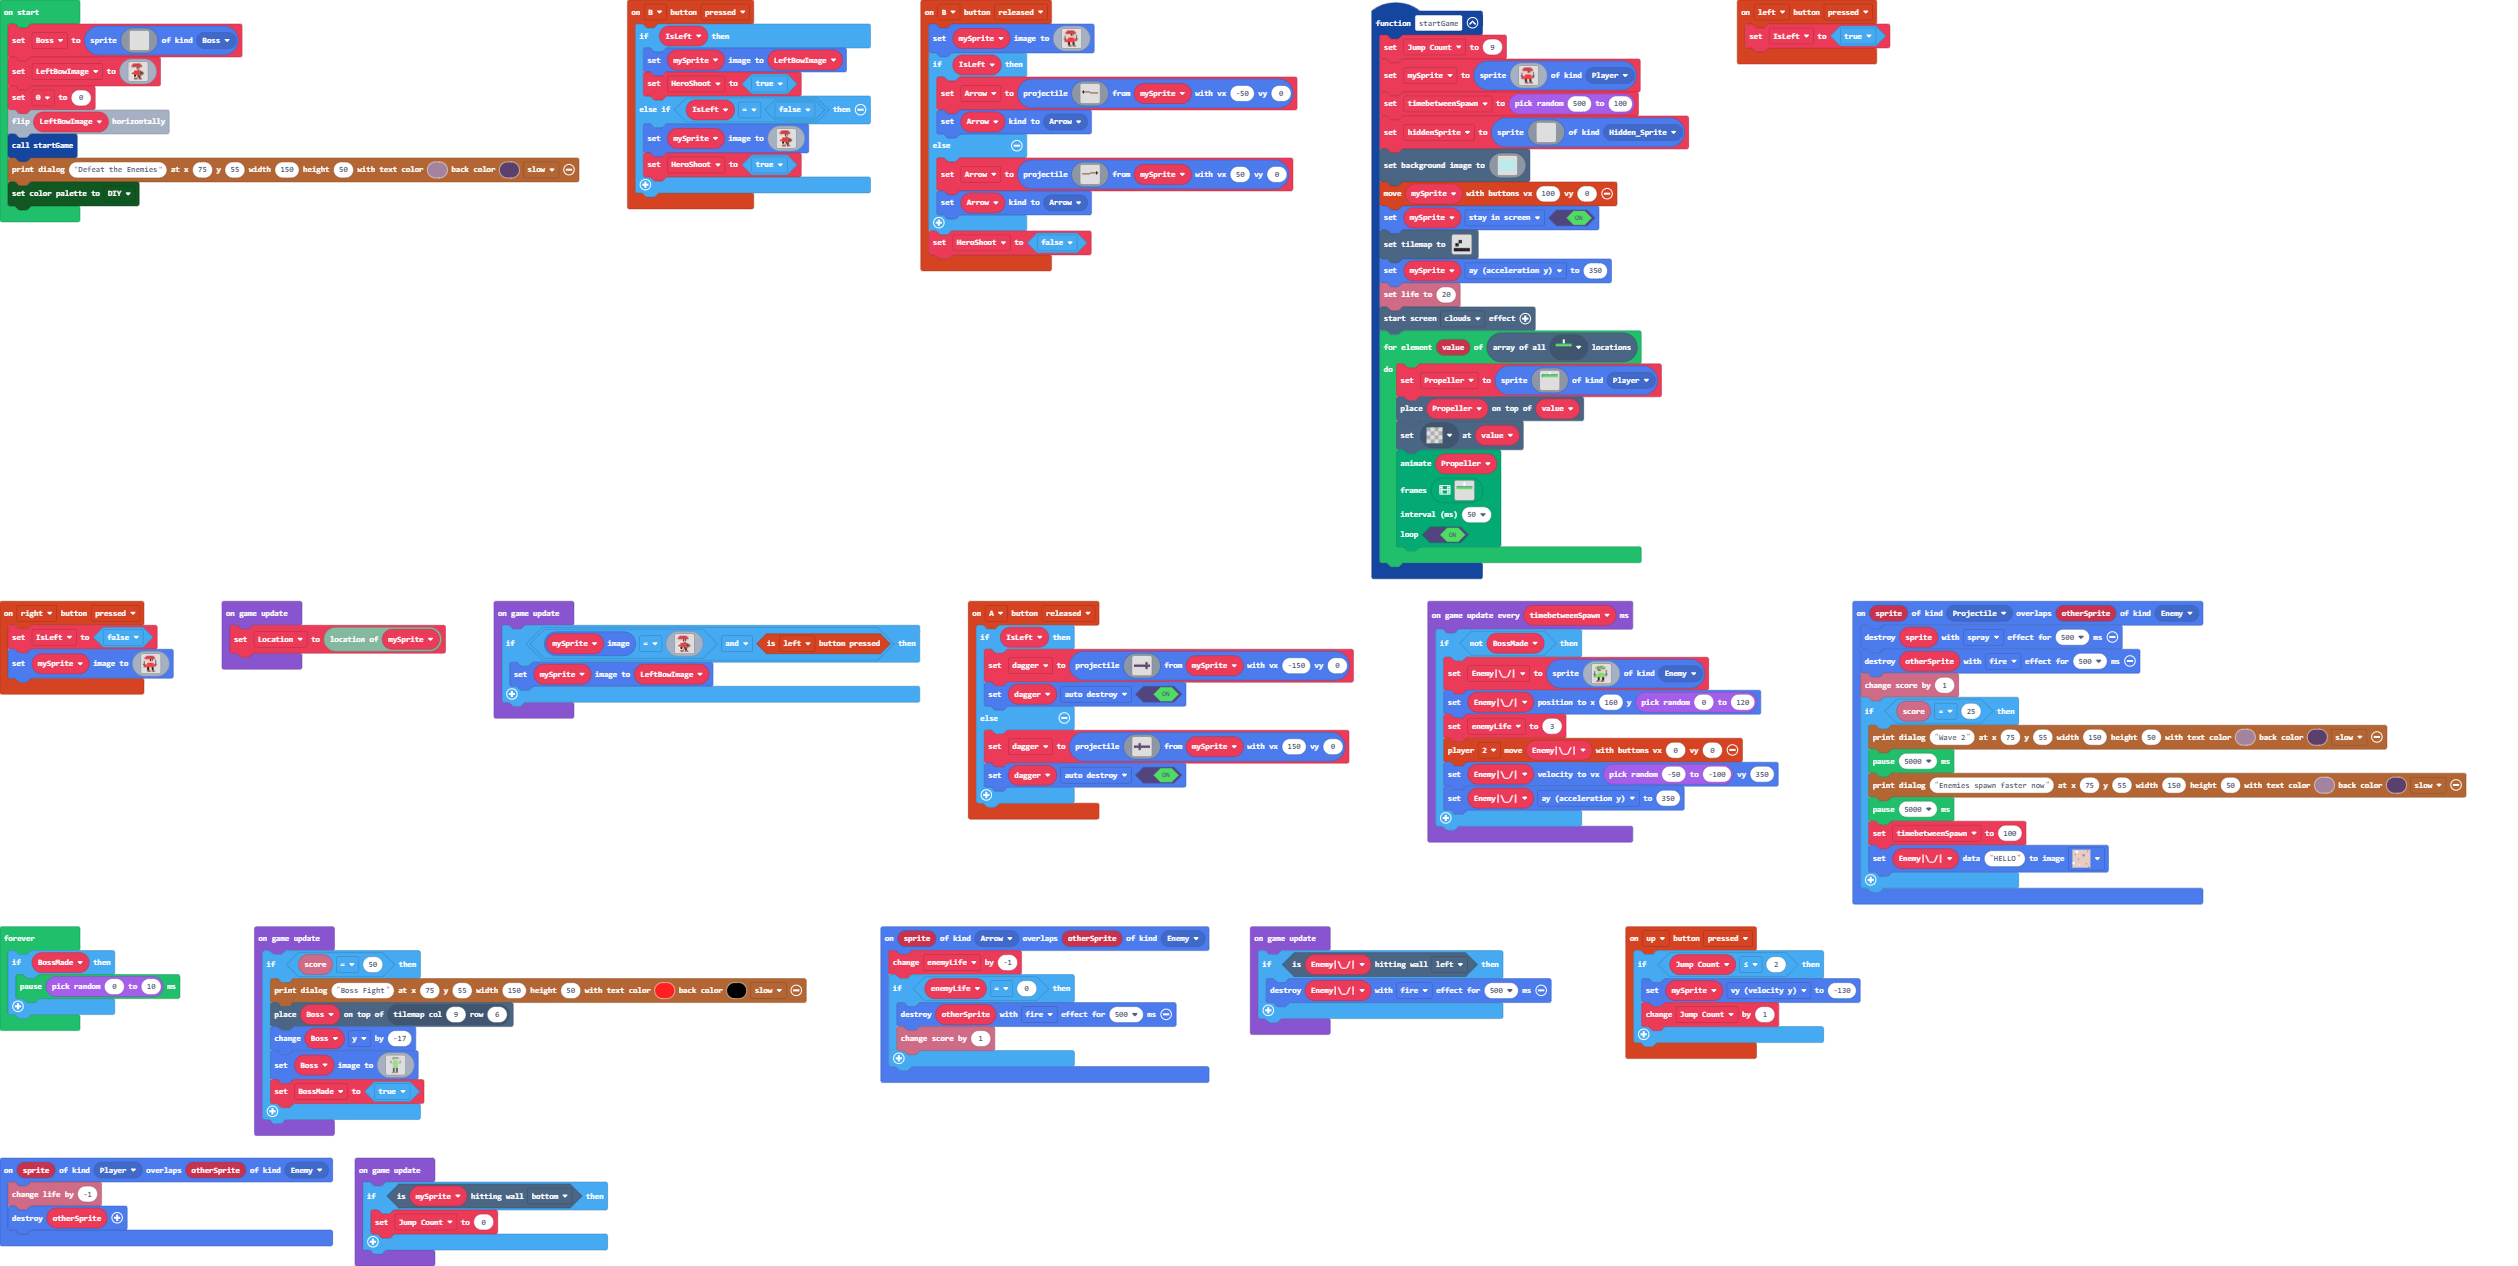
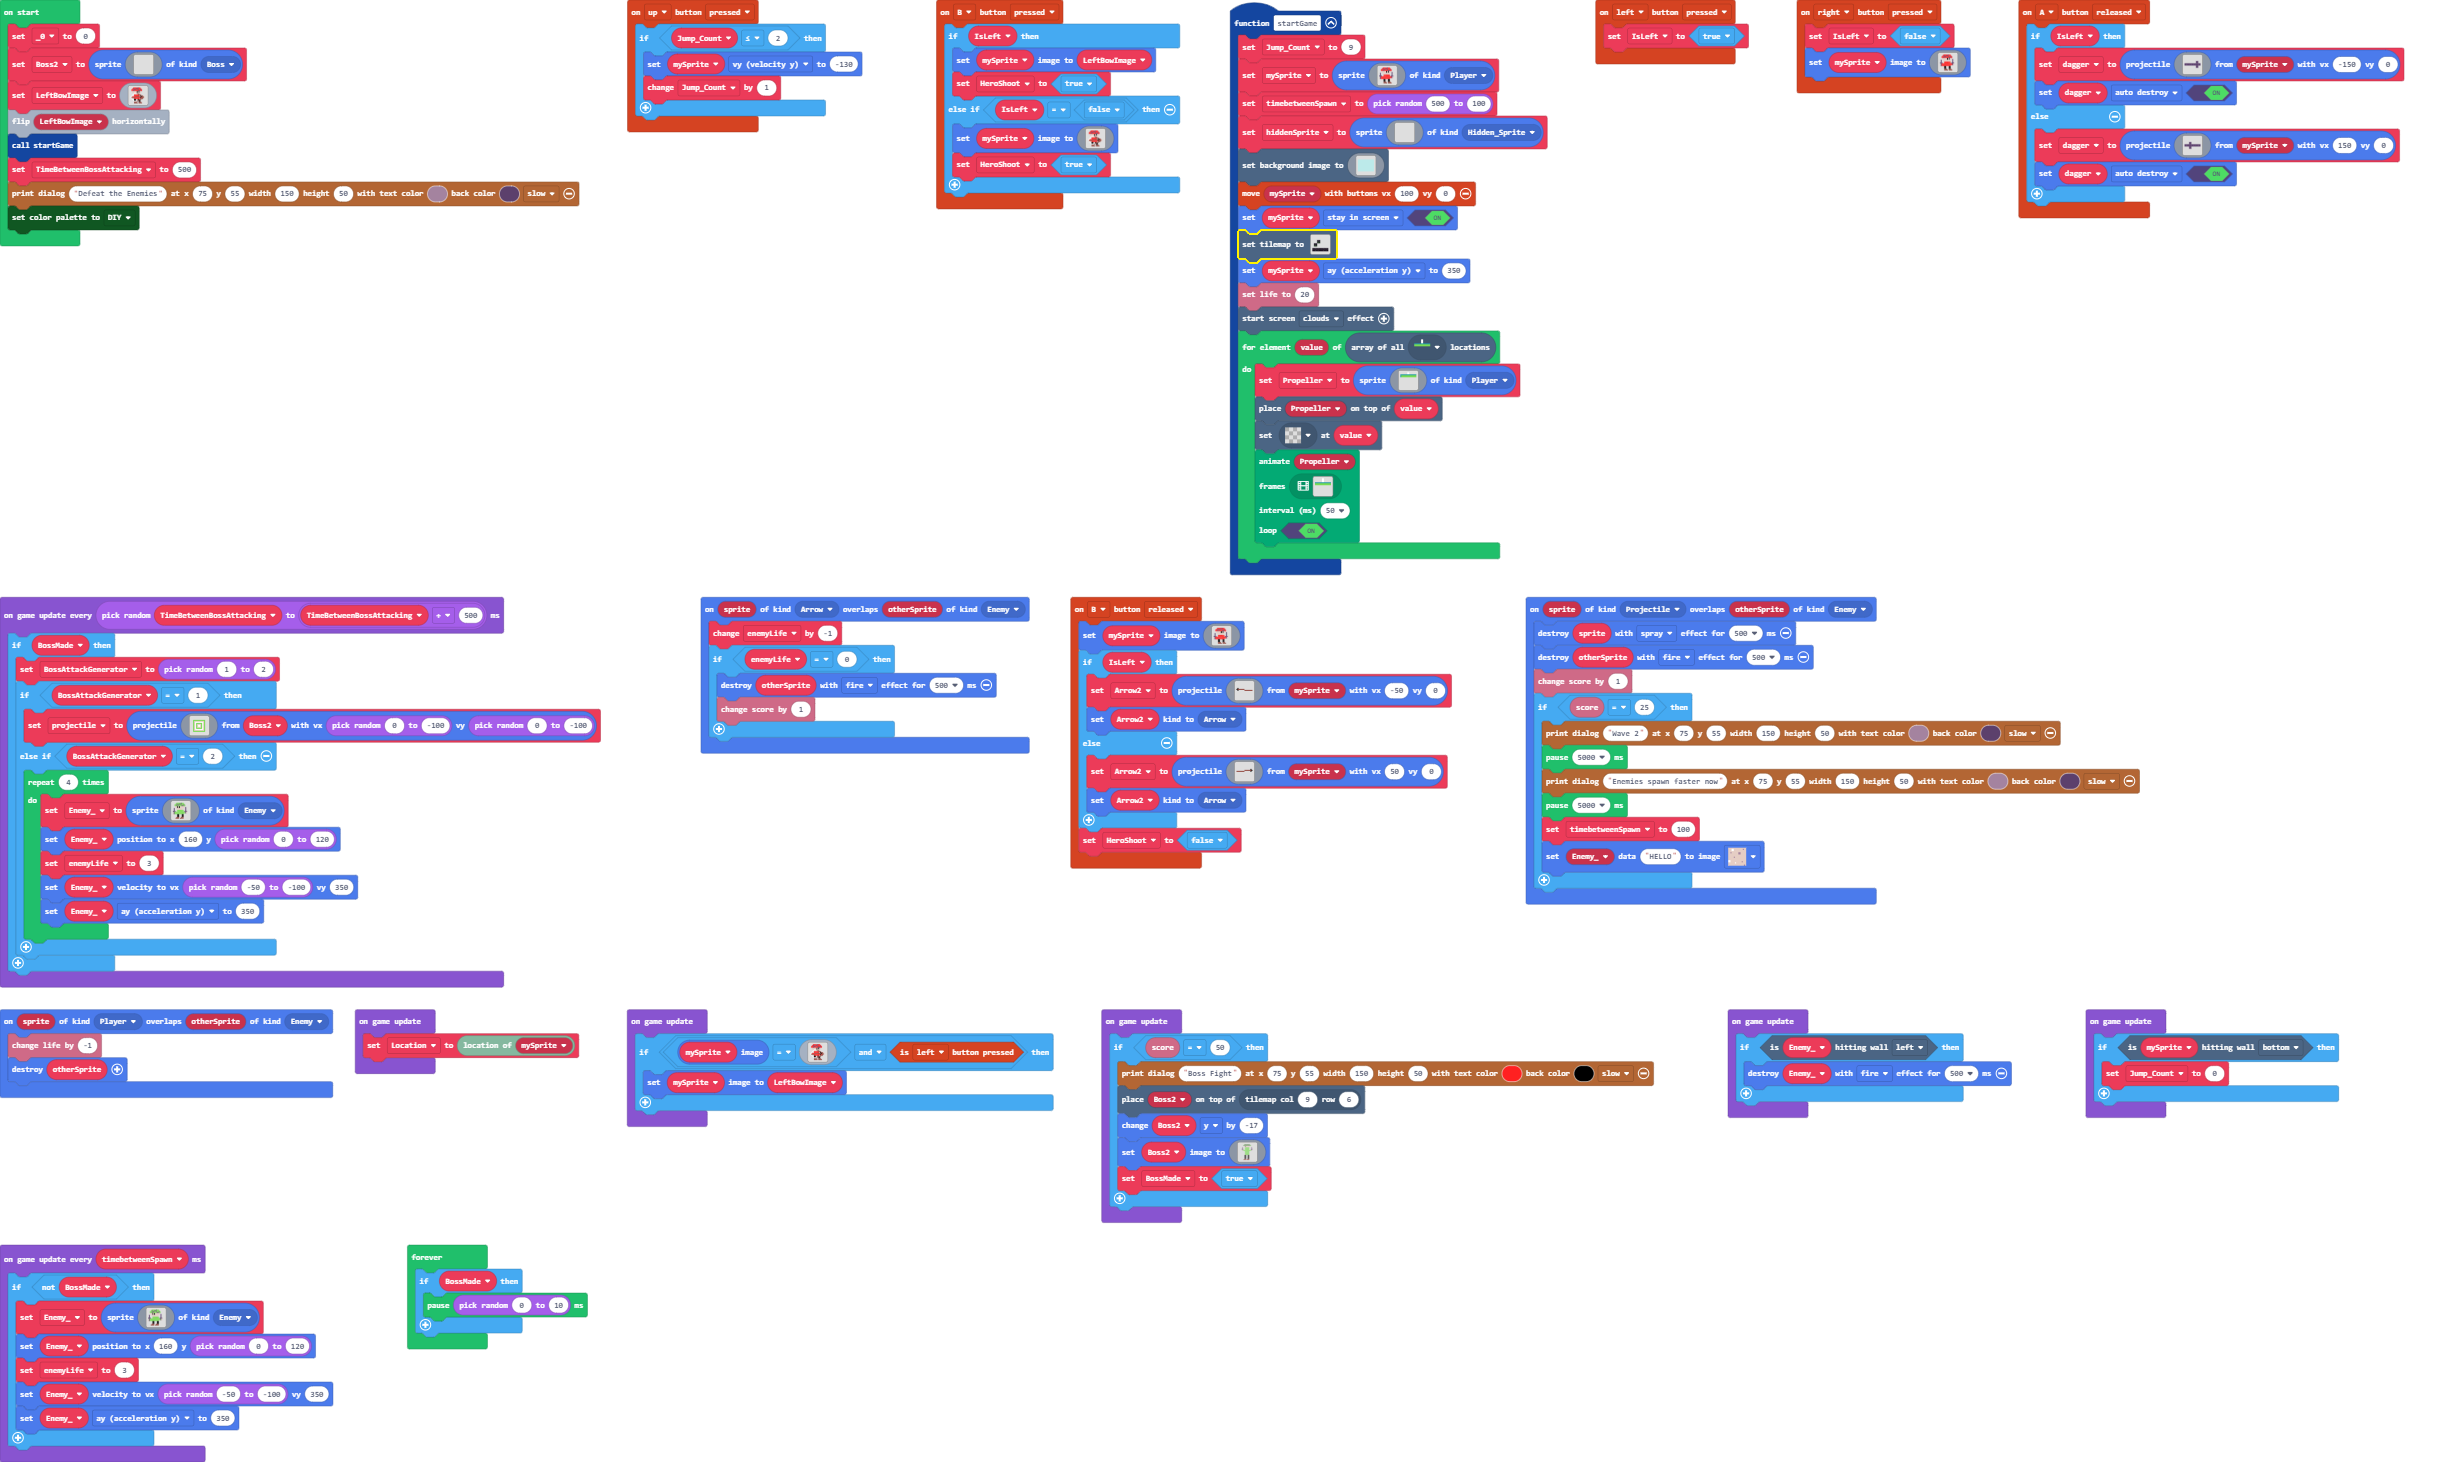
Update main.blocks, main.ts

diff --git a/main.ts b/main.ts
@@ -459,7 +459,7 @@ controller.B.onEvent(ControllerButtonEvent.Released, function () {
         . . . . . e e e e . e e e e . . . . 
         `)
     if (IsLeft) {
-        Arrow = sprites.createProjectileFromSprite(img`
+        Arrow2 = sprites.createProjectileFromSprite(img`
             . . . . . . . . . . . . . . . . 
             . . . . . . . . . . . . . . . . 
             . . . . . . . . . . . . . . . . 
@@ -477,9 +477,9 @@ controller.B.onEvent(ControllerButtonEvent.Released, function () {
             . . . . . . . . . . . . . . . . 
             . . . . . . . . . . . . . . . . 
             `, mySprite, -50, 0)
-        Arrow.setKind(SpriteKind.Arrow)
+        Arrow2.setKind(SpriteKind.Arrow)
     } else {
-        Arrow = sprites.createProjectileFromSprite(img`
+        Arrow2 = sprites.createProjectileFromSprite(img`
             . . . . . . . . . . . . . . . . 
             . . . . . . . . . . . . . . . . 
             . . . . . . . . . . . . . . . . 
@@ -497,7 +497,7 @@ controller.B.onEvent(ControllerButtonEvent.Released, function () {
             . . . . . . . . . . . . . . . . 
             . . . . . . . . . . . . . . . . 
             `, mySprite, 50, 0)
-        Arrow.setKind(SpriteKind.Arrow)
+        Arrow2.setKind(SpriteKind.Arrow)
     }
     HeroShoot = false
 })
@@ -518,10 +518,12 @@ sprites.onOverlap(SpriteKind.Player, SpriteKind.Enemy, function (sprite, otherSp
     info.changeLifeBy(-1)
     otherSprite.destroy()
 })
+let projectile: Sprite = null
+let BossAttackGenerator = 0
 let BossMade = false
 let Location: tiles.Location = null
 let Enemy_: Sprite = null
-let Arrow: Sprite = null
+let Arrow2: Sprite = null
 let enemyLife = 0
 let dagger: Sprite = null
 let Propeller: Sprite = null
@@ -532,7 +534,8 @@ let IsLeft = false
 let mySprite: Sprite = null
 let Jump_Count = 0
 let LeftBowImage: Image = null
-let Boss = sprites.create(img`
+let _0 = 0
+let Boss2 = sprites.create(img`
     . . . . . . . . . . . . . . . . . . . . . . . . . . . . . . . . . . . . 
     . . . . . . . . . . . . . . . . . . . . . . . . . . . . . . . . . . . . 
     . . . . . . . . . . . . . . . . . . . . . . . . . . . . . . . . . . . . 
@@ -604,9 +607,9 @@ LeftBowImage = img`
     . . . . e e e . . e e e . . . . 
     . . . . e e e e . e e e e . . . 
     `
-let _0 = 0
 LeftBowImage.flipX()
 startGame()
+let TimeBetweenBossAttacking = 500
 story.printDialog("Defeat the Enemies", 75, 55, 50, 150, 11, 12, story.TextSpeed.Slow)
 color.setPalette(
 color.DIY
@@ -641,9 +644,9 @@ game.onUpdate(function () {
 game.onUpdate(function () {
     if (info.score() == 50) {
         story.printDialog("Boss Fight", 75, 55, 50, 150, 2, 15, story.TextSpeed.Slow)
-        tiles.placeOnTile(Boss, tiles.getTileLocation(9, 6))
-        Boss.y += -17
-        Boss.setImage(img`
+        tiles.placeOnTile(Boss2, tiles.getTileLocation(9, 6))
+        Boss2.y += -17
+        Boss2.setImage(img`
             . . . . . . . . . . 7 c 7 c c 7 7 7 c c c c 7 c c 7 . . . . . . . . . . 
             . . . . . . . . . c 7 7 c 7 7 c c c 7 7 7 7 c 7 7 c 7 . . . . . . . . . 
             . . . . . . . . 7 7 c c 7 c 7 7 7 7 c c c c 7 c c 7 c c . . . . . . . . 
@@ -708,6 +711,58 @@ game.onUpdate(function () {
         Jump_Count = 0
     }
 })
+game.onUpdateInterval(randint(TimeBetweenBossAttacking, TimeBetweenBossAttacking + 500), function () {
+    if (BossMade) {
+        BossAttackGenerator = randint(1, 2)
+        if (BossAttackGenerator == 1) {
+            projectile = sprites.createProjectileFromSprite(img`
+                . . . . . . . . . . . . . . . . 
+                . . . . . . . . . . . . . . . . 
+                . . 7 7 7 7 7 7 7 7 7 7 7 7 . . 
+                . . 7 d d d d d d d d d d 7 . . 
+                . . 7 d 1 1 1 1 1 1 1 1 d 7 . . 
+                . . 7 d 1 7 7 7 7 7 7 1 d 7 . . 
+                . . 7 d 1 7 d d d d 7 1 d 7 . . 
+                . . 7 d 1 7 d 1 1 d 7 1 d 7 . . 
+                . . 7 d 1 7 d 1 1 d 7 1 d 7 . . 
+                . . 7 d 1 7 d d d d 7 1 d 7 . . 
+                . . 7 d 1 7 7 7 7 7 7 1 d 7 . . 
+                . . 7 d 1 1 1 1 1 1 1 1 d 7 . . 
+                . . 7 d d d d d d d d d d 7 . . 
+                . . 7 7 7 7 7 7 7 7 7 7 7 7 . . 
+                . . . . . . . . . . . . . . . . 
+                . . . . . . . . . . . . . . . . 
+                `, Boss2, randint(0, -100), randint(0, -100))
+        } else if (BossAttackGenerator == 2) {
+            for (let index = 0; index < 4; index++) {
+                Enemy_ = sprites.create(img`
+                    . . . . 7 7 7 7 7 c 7 7 . . . . . . 
+                    . . . 7 c 7 7 c c 7 7 7 7 . . . . . 
+                    . . 7 7 7 c c 7 7 c 7 7 c 7 . . . . 
+                    . . 7 7 c 7 7 7 7 7 c c 7 7 . . . . 
+                    . . . d d f d f d d d d d . . . . . 
+                    . . . d d f d f d d d d d . c . . . 
+                    . c . . d d d d d d d d . . c . . . 
+                    . c . . . d d d d d d . . . c . . . 
+                    . c . . . 7 7 7 7 7 7 7 . . c . . . 
+                    c c c . . 7 7 7 7 7 7 7 . c c c . . 
+                    . c 7 7 7 7 7 7 7 7 7 7 7 7 c d . . 
+                    d c 7 7 7 7 7 7 7 7 7 7 7 7 c d . . 
+                    d c 7 7 7 7 7 7 7 7 7 7 . . . . . . 
+                    . . . . . f f . . . f f . . . . . . 
+                    . . . . . f f . . . f f . . . . . . 
+                    . . . . . f f . . . f f . . . . . . 
+                    . . . . e e e . . e e e . . . . . . 
+                    . . . e e e e . e e e e . . . . . . 
+                    `, SpriteKind.Enemy)
+                Enemy_.setPosition(160, randint(0, 120))
+                enemyLife = 3
+                Enemy_.setVelocity(randint(-50, -100), 350)
+                Enemy_.ay = 350
+            }
+        }
+    }
+})
 game.onUpdateInterval(timebetweenSpawn, function () {
     if (!(BossMade)) {
         Enemy_ = sprites.create(img`
@@ -732,7 +787,6 @@ game.onUpdateInterval(timebetweenSpawn, function () {
             `, SpriteKind.Enemy)
         Enemy_.setPosition(160, randint(0, 120))
         enemyLife = 3
-        controller.player2.moveSprite(Enemy_, 0, 0)
         Enemy_.setVelocity(randint(-50, -100), 350)
         Enemy_.ay = 350
     }
